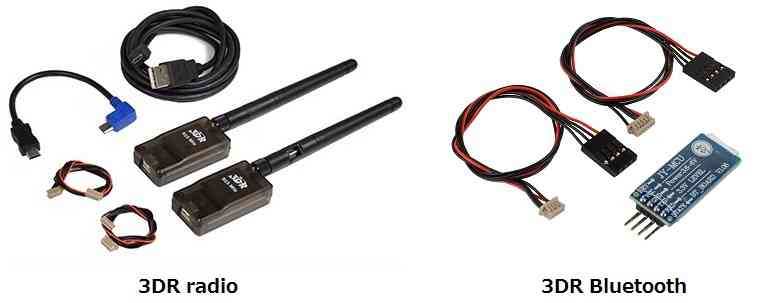
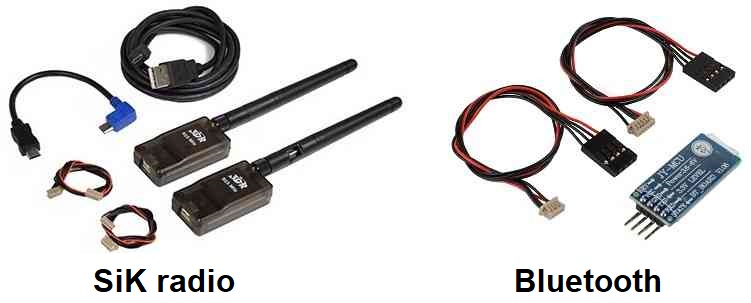
Common: alphabetise telemetry landing page

diff --git a/common/source/docs/common-telemetry-landingpage.rst b/common/source/docs/common-telemetry-landingpage.rst
@@ -16,13 +16,13 @@ information based upon your set-up.
 .. toctree::
     :maxdepth: 1
 
+    Bluetooth <common-mission-planner-bluetooth-connectivity>
+    FlightDeck FrSky Transmitter App <common-frsky-flightdeck>
+    FrSky telemetry <common-frsky-telemetry>
     RFD900 <common-rfd900>
     SiK Radio v2 <common-sik-telemetry-radio>
-    Telemetry Radio Regional Regulations <common-telemetry-radio-regional-regulations>
-    Configuring a Telemetry Radio <common-configuring-a-telemetry-radio-using-mission-planner>
-    Bluetooth <common-mission-planner-bluetooth-connectivity>
-    FrSky telemetry <common-frsky-telemetry>
-    FlightDeck FrSky Transmitter App <common-frsky-flightdeck>
     XBee <common-telemetry-xbee>
-    SiK Radio — Advanced Configuration <common-3dr-radio-advanced-configuration-and-technical-information>
-    3DR Radio v1 <common-3dr-radio-v1>
+    Telemetry Radio Regional Regulations <common-telemetry-radio-regional-regulations>
+    SiK Radio configuration <common-configuring-a-telemetry-radio-using-mission-planner>
+    SiK Radio advanced configuration <common-3dr-radio-advanced-configuration-and-technical-information>
+    SiK Radio v1 <common-3dr-radio-v1>
